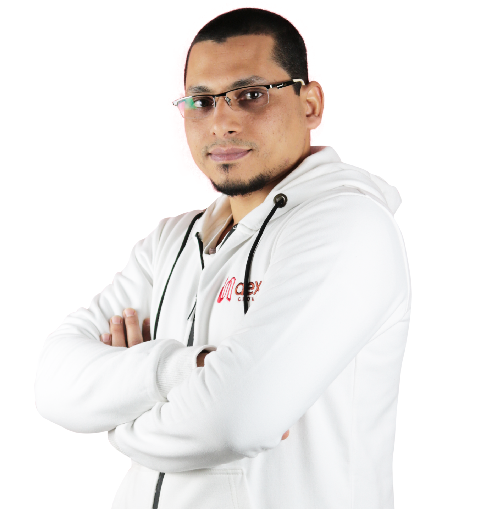
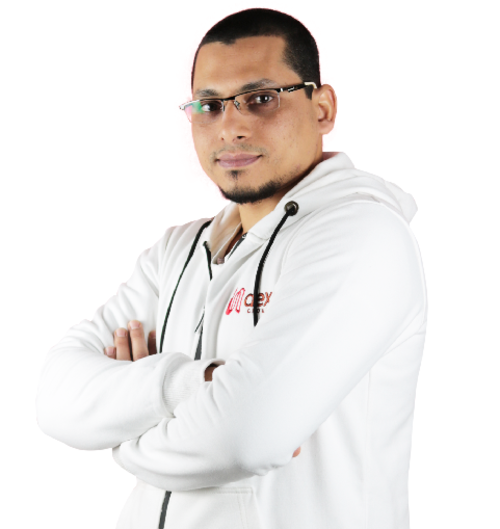
Better image dimensions

diff --git a/src/app/components/Intorduction.tsx b/src/app/components/Intorduction.tsx
@@ -64,7 +64,7 @@ const Introduction = ({ fullName, nationality, title }: IntrodcutionProps) => (
                 an {nationality} <Title title={title} />, with <Important level={3}>8</Important> years of total web development experience,
                 <Important level={3}>6</Important> of them using <Important level={3}>MERN</Important> stack.
             </P>
-            <Image width="500" height="500" src="/pic1.png" alt="Wael Hasan picture" style={{ float: "right" }} />
+            <Image width="500" height="529" src="/pic1.png" alt="Wael Hasan picture" style={{ float: "right" }} />
             <P>
                 I build a high quality Functional and Object Oriented code, plus being a testing enthusiast, which makes me
                 thrive to have a <Important level={3}>100%</Important> test coverage for all of my codes,
